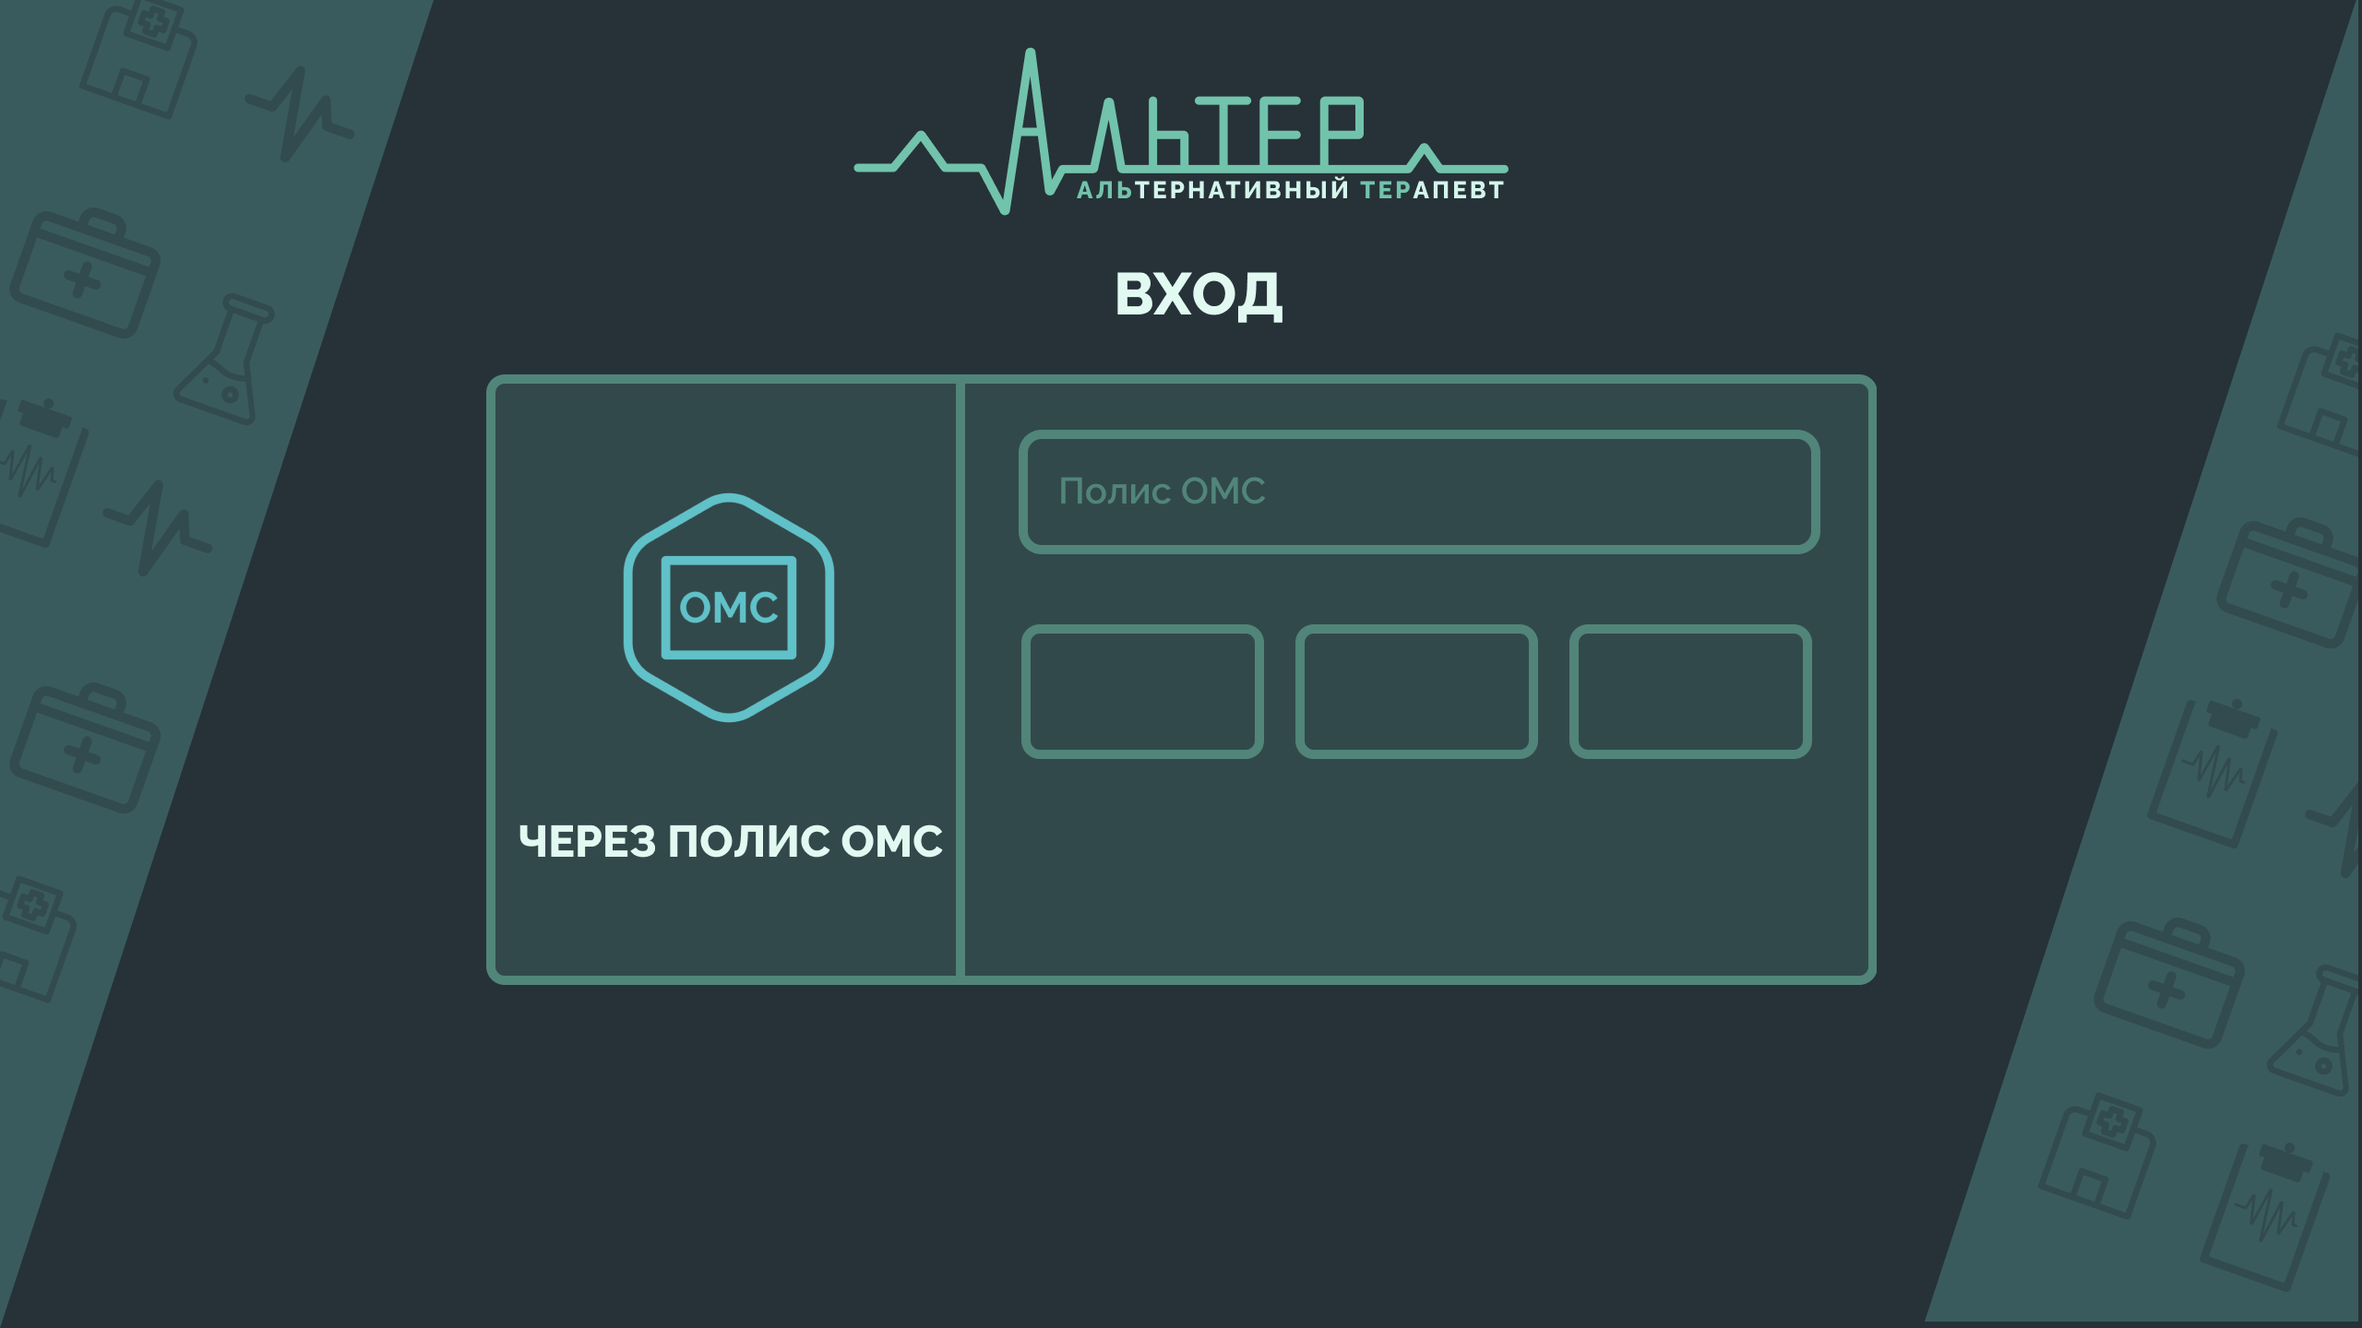
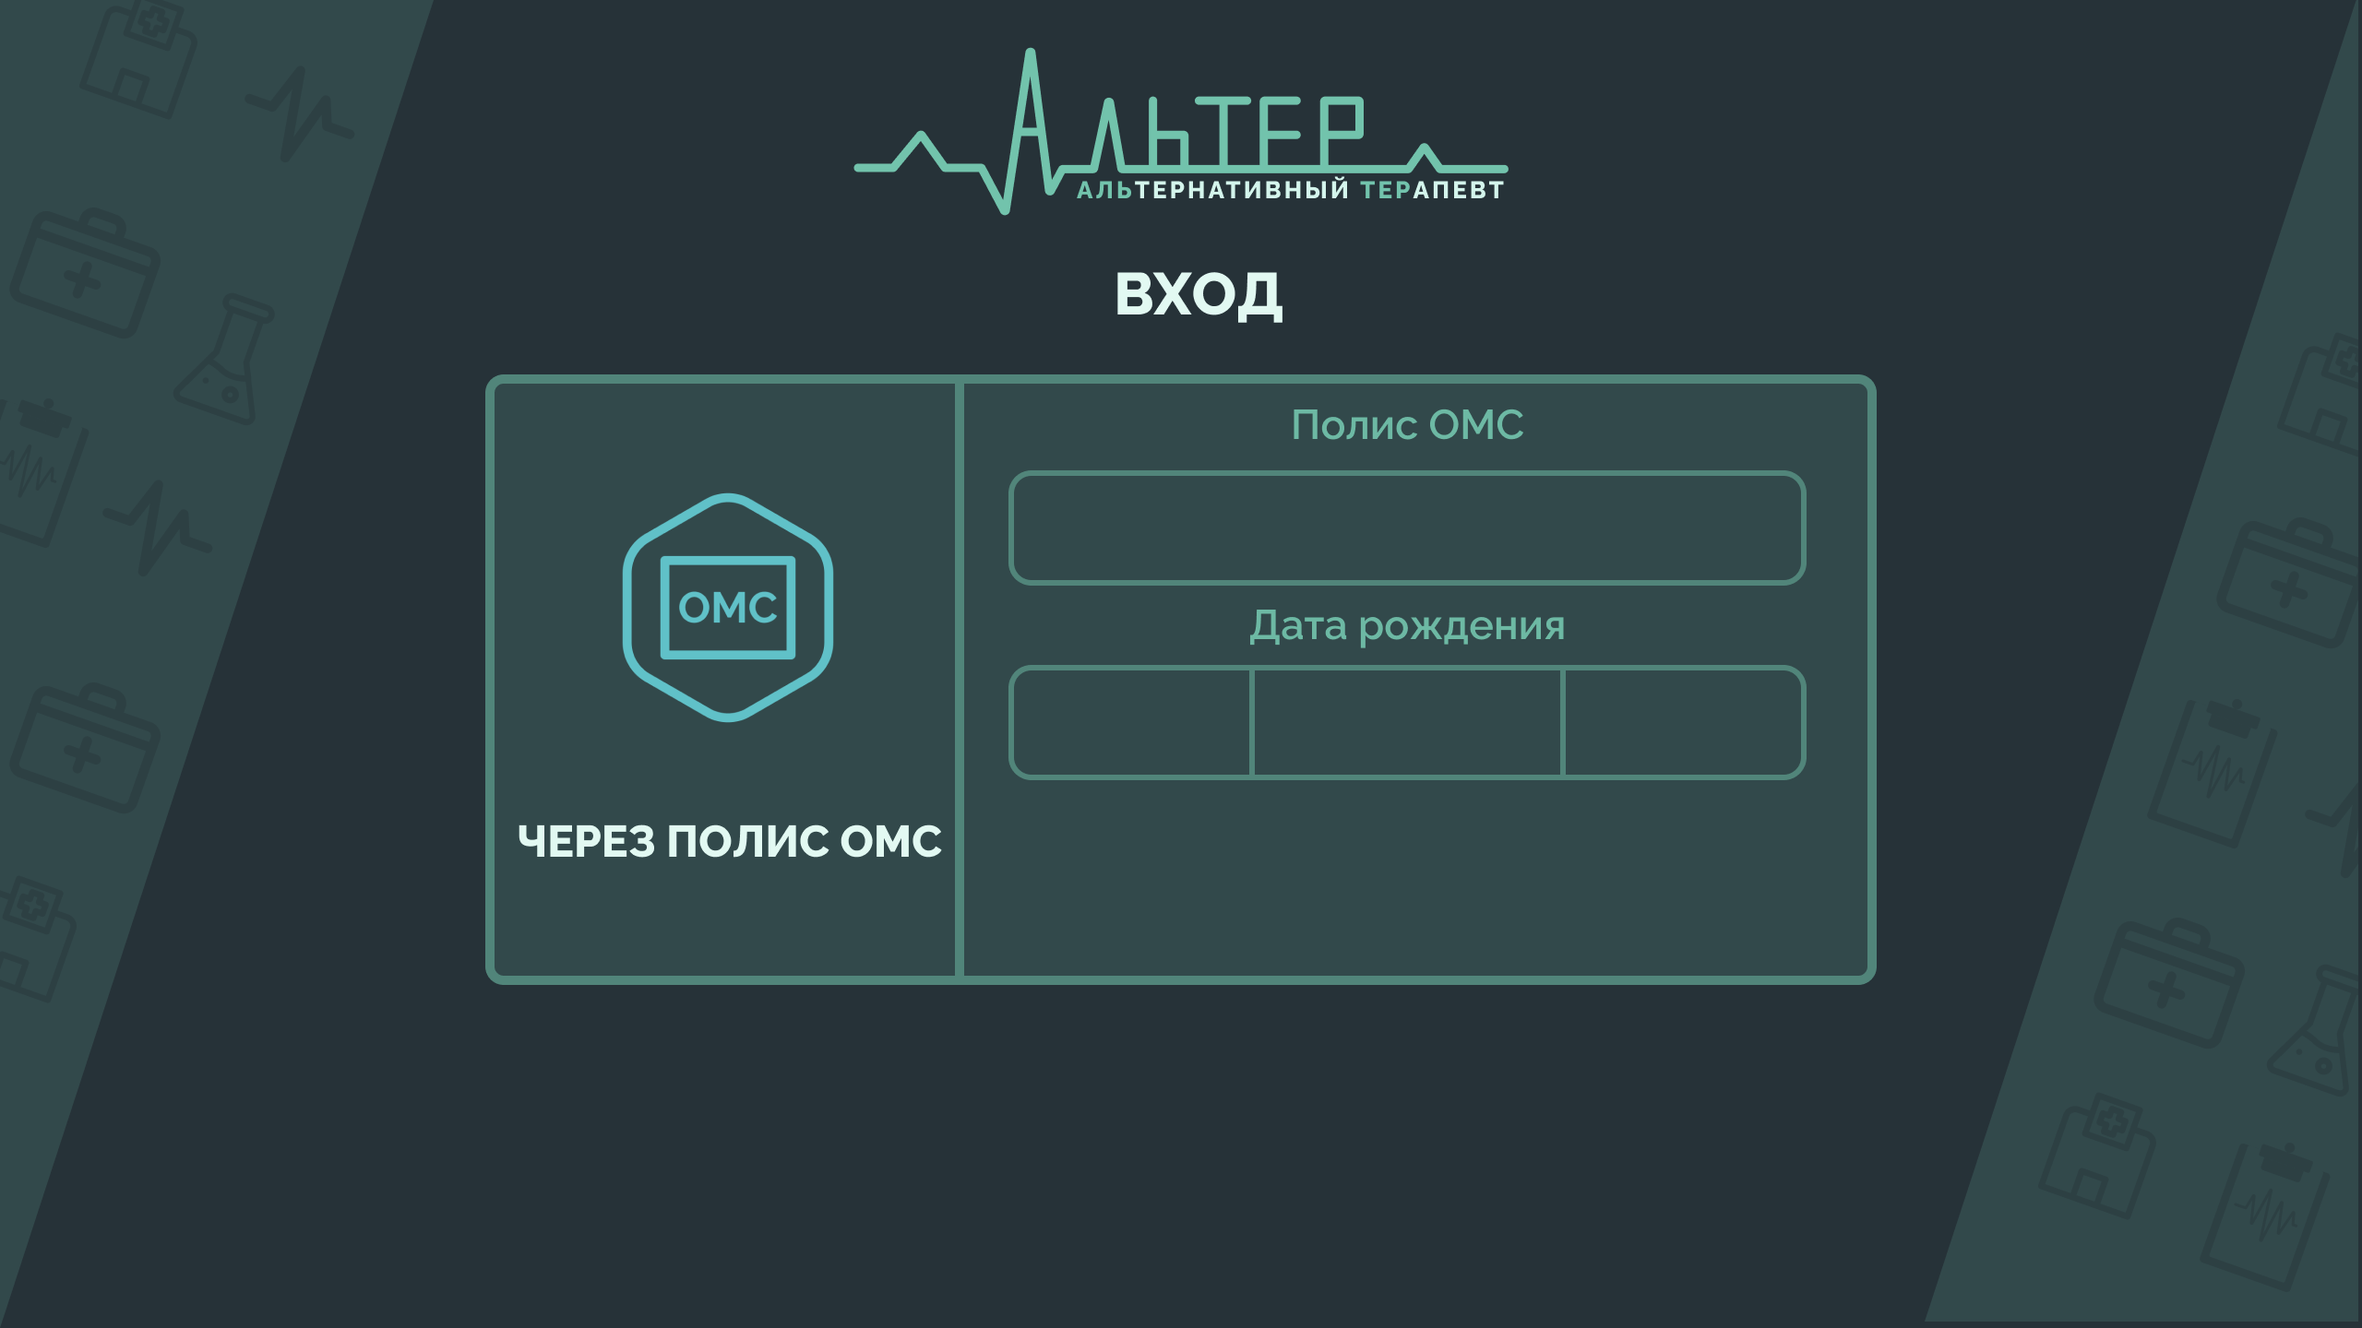
Add files via upload

Changed region(s): [[0.4062, 0.3125, 0.7812, 0.5938], [0.2812, 0.625, 0.3438, 0.6562], [0.2812, 0.4375, 0.3438, 0.4688]]

diff --git a/Screens/omsscreen.py b/Screens/omsscreen.py
@@ -1,6 +1,4 @@
 import sys
-import locale
-locale.setlocale(locale.LC_ALL, '')
 from kivy.properties import DictProperty, ObjectProperty
 from kivy.clock import Clock
 import threading
@@ -8,26 +6,48 @@ from kivy.clock import Clock, mainthread
 from kivymd.uix.screen import MDScreen as Screen
 from kivymd.uix.button import MDFillRoundFlatButton
 from kivymd.effects.fadingedge.fadingedge import FadingEdgeEffect
+from kivy.uix.behaviors import ToggleButtonBehavior
 from kivymd.uix.list import OneLineListItem
 from kivy.uix.scrollview import ScrollView
 from kivymd.uix.dialog import MDDialog
 from kivymd_extensions.akivymd.uix.datepicker import AKDatePicker
+from kivy.uix.screenmanager import FadeTransition
 from kivy.utils import get_color_from_hex
+from kivymd.uix.textfield import MDTextField
 import requests
 
 class FadeScrollView(FadingEdgeEffect, ScrollView):
     pass
 
-class OneLineListItemAligned(OneLineListItem):
-    def __init__(self, halign, **kwargs):
-        super(OneLineListItemAligned, self).__init__(**kwargs)
-        self.ids._lbl_primary.halign = halign
+
+        
 
 class OMSScreen(Screen):
     dialog = None
     dialog1 = None
     dialogs = None
     timeclocks = None
+    day = None
+    year = None
+    month = None
+    def back(self):
+        self.ids.policy.text =""
+        self.day = None
+        self.year = None
+        self.month = None
+        self.manager.transition = FadeTransition(duration=.1)
+        self.manager.current = 'enter'
+        self.manager.get_screen('enter').on_touch_down()
+        self.ids.counts.text_color ='white'
+        x = ToggleButtonBehavior.get_widgets('x')
+        for i in x:
+            i.state = 'normal'
+        y = ToggleButtonBehavior.get_widgets('y')
+        for i in y:
+            i.state = 'normal'
+        z = ToggleButtonBehavior.get_widgets('z')
+        for i in z:
+            i.state = 'normal'
     @mainthread
     def error(self):
         self.manager.current = "oms"
@@ -45,12 +65,6 @@ class OMSScreen(Screen):
         self.manager.get_screen('loged').bdates = bdate
         self.manager.get_screen('loged').types = 'oms'
         self.manager.get_screen('priem').cur = 'omsloged'
-    def back(self):
-        self.manager.current = "enter"
-        self.bdate.helper_text = ""
-        self.policy.helper_text = ""
-        self.policy.text = ""
-        self.bdate.text = ""
 
     def datepicker(self):
         self.date = AKDatePicker(callback=self.callback)
@@ -109,34 +123,20 @@ class OMSScreen(Screen):
         sys.exit()
 
     def omslogin(self):
-        if len(self.policy.text) < 16 or len(self.policy.text) > 16:
-            self.policy.helper_text = "Некорректный полис"
-            self.policy.helper_text_color_normal = "red"
-            self.policy.helper_text_color_focus = "red"
-        elif self.bdate.text != "":
+        if len(self.ids.policy.text) < 16 or len(self.ids.policy.text) > 16:
+            None
+        elif self.day !=None and self.month !=None and self.year !=None:
             if self.timeclocks == None:
                 self.timeclocks = Clock.schedule_interval(self.manager.get_screen('loged').update, 2)
-            bdate = self.bdate.text.replace(".", "-")
-            oms = self.policy.text
-            self.omsfunc(self.policy.text, bdate)
-            self.bdate.helper_text = ""
-            self.bdate.helper_text_color_normal = "white"
-            self.bdate.helper_text_color_focus = "white"
-            self.policy.helper_text_color_normal = "white"
-            self.policy.helper_text = ""
-            self.bdate.text = ''
-            self.policy.text = ''
-            self.policy.helper_text_color_focus = "white"
+            bdate = f'{self.year}-{self.month}-{self.day}'
+            print(bdate)
+            self.omsfunc(self.ids.policy.text, bdate)
+            self.ids.policy.text = ''
             self.manager.current = "loadoms"
 
 
         else:
-            self.bdate.helper_text = "Введите дату"
-            self.bdate.helper_text_color_normal = "red"
-            self.bdate.helper_text_color_focus = "red"
-            self.policy.helper_text_color_normal = "white"
-            self.policy.helper_text = ""
-            self.policy.helper_text_color_focus = "white"
+            None
 
     def show_alert_dialog(self):
         if not self.dialog:
@@ -182,20 +182,12 @@ class OMSScreen(Screen):
                 ],
             )
         self.dialogs.open()
-    def validation(self):
-        if self.ids.policy.text != '':
-            if len(self.ids.policy.text) != 16:
-                self.ids.policy.fill_color_normal = get_color_from_hex("B5474D")
-            else:
-                self.ids.policy.fill_color_normal = get_color_from_hex("#32494B")
-        else:
-            self.ids.policy.fill_color_normal = 53/255,73/255,75/255,0
     def cou(self):
         self.ids.counts.text = f'{len(self.ids.policy.text)}/16'
         if 16>len(self.ids.policy.text) or len(self.ids.policy.text)>16:
-            self.ids.counts.text_color = 'red'
+            self.ids.counts.text_color = get_color_from_hex("#72C3AC")
         else:
-            self.ids.counts.text_color = 'white'
+            self.ids.counts.text_color = get_color_from_hex("#72C3AC")
     def days(self, instance):
         self.day = str(instance.date).zfill(2)
     def months(self, instance):

diff --git a/main.py b/main.py
@@ -1,17 +1,21 @@
-import locale
 from kivy.clock import Clock
 from Screens.enterscreen import ENTERScreen
-from Screens.mosscreen import MOSScreen
+from Screens.mosscreen import MOSScreen, HelpScreen
 from Screens.omsscreen import OMSScreen
 from Screens.lkcardscreen import LKCard
 from Screens.mosloged import MOSLoged
+import locale
+locale.setlocale(
+    category=locale.LC_ALL,
+    locale="Russian"
+)
 from kivy.utils import get_color_from_hex
 from Screens.omsloged import OMSLoged
 from Screens.privivkiscreen import Privivki
 from Screens.priemscreen import Priem
+from Screens.emiasscreen import EmiasScreen
 from kivy.uix.scrollview import ScrollView
 from Screens.decryptscreen import Decrypt
-locale.setlocale(locale.LC_ALL, '')
 from kivymd.effects.fadingedge.fadingedge import FadingEdgeEffect
 from kivymd.uix.button import MDFlatButton
 from kivymd.uix.behaviors.toggle_behavior import MDToggleButton
@@ -89,12 +93,12 @@ class Alert(Screen):
 class MyToggleButton(MDFlatButton, MDToggleButton):
     def __init__(self, *args, **kwargs):
         super().__init__(*args, **kwargs)
-        self.background_down = get_color_from_hex('#00E4B6')
-        self.font_color_normal =  get_color_from_hex('#E2F9F2')
-        self.font_color_down =  get_color_from_hex('#E2F9F2')
+        self.background_down = get_color_from_hex('#51857A')
+        self.font_color_normal =  get_color_from_hex('#72C3AC')
+        self.font_color_down =  get_color_from_hex('#72C3AC')
 
     def on_state(self, widget, value):
-        print(1)
+        print(self.state)
 
 class AlterApp(MDApp):
     sm = None
@@ -102,7 +106,9 @@ class AlterApp(MDApp):
         self.sm = ScreenManager()
         sm = self.sm
         sm.add_widget(AFK(name='afk'))
+        sm.add_widget(EmiasScreen(name='emiasscreen'))
         sm.add_widget(Alert(name='alert'))
+        sm.add_widget(HelpScreen(name='help'))
         sm.add_widget(ENTERScreen(name="enter"))
         sm.add_widget(OMSScreen(name="oms"))
         sm.add_widget(MOSScreen(name="mos"))
@@ -124,7 +130,7 @@ class AlterApp(MDApp):
         sm.add_widget(Decrypt(name='decrypt'))
         Clock.schedule_interval(sm.get_screen('enter').update, 2)
         for i in range(1,32):
-            twl = MyToggleButton(halign="center", text=f'{i}', text_color=get_color_from_hex('#E2F9F2'), theme_text_color='Custom', font_style='H4', on_press = sm.get_screen('oms').days, md_bg_color = get_color_from_hex('#32494B'), size_hint = (1, .2), group="x")
+            twl = MyToggleButton(halign="center", text=f'{i}', text_color=get_color_from_hex('#72C3AC'), theme_text_color='Custom', font_style='H4', on_press = sm.get_screen('oms').days, md_bg_color = get_color_from_hex('#32494B'), size_hint = (1, .2), group="x")
             twl.date = i
             sm.get_screen('oms').ids.container1.add_widget(twl)
         months=[
@@ -142,11 +148,11 @@ class AlterApp(MDApp):
         'Декабрь'
         ]
         for i in months:
-            twl = MyToggleButton(halign="center", text=f'{i}', text_color=get_color_from_hex('#E2F9F2'), theme_text_color='Custom', font_style='H4', on_press = sm.get_screen('oms').months, md_bg_color = get_color_from_hex('#32494B'), size_hint = (1, .2), group="y")
+            twl = MyToggleButton(halign="center", text=f'{i}', text_color=get_color_from_hex('#72C3AC'), theme_text_color='Custom', font_style='H4', on_press = sm.get_screen('oms').months, md_bg_color = get_color_from_hex('#32494B'), size_hint = (1, .2), group="y")
             twl.month = i
             sm.get_screen('oms').ids.container2.add_widget(twl)
         for i in reversed(range(1900, 2024)):
-            twl = MyToggleButton(halign="center", text=f'{i}', text_color=get_color_from_hex('#E2F9F2'), theme_text_color='Custom', font_style='H4', on_press = sm.get_screen('oms').years, md_bg_color = get_color_from_hex('#32494B'), size_hint = (1, .2), group="z")
+            twl = MyToggleButton(halign="center", text=f'{i}', text_color=get_color_from_hex('#72C3AC'), theme_text_color='Custom', font_style='H4', on_press = sm.get_screen('oms').years, md_bg_color = get_color_from_hex('#32494B'), size_hint = (1, .2), group="z")
             twl.year = i
             sm.get_screen('oms').ids.container3.add_widget(twl)
         return sm

diff --git a/Screens/enterscreen.py b/Screens/enterscreen.py
@@ -5,8 +5,6 @@ from kivy.uix.image import Image
 from kivy.clock import Clock
 from kivy.core.window import Window
 from kivy.uix.relativelayout import RelativeLayout
-import locale
-locale.setlocale(locale.LC_ALL, '')
 import datetime
 
 class ENTERScreen(Screen):
@@ -57,4 +55,14 @@ class ENTERScreen(Screen):
             week = '[color=#D4F5EC]ВС[/color]'
         self.ids.time.text = f'[color=#D4F5EC]{time}[/color]'
         self.ids.week.text = f'[color=#D4F5EC]{week}, {days} {months}[/color]'
+        self.manager.get_screen('oms').ids.time.text = f'[color=#D4F5EC]{time}[/color]'
+        self.manager.get_screen('oms').ids.week.text = f'[color=#D4F5EC]{week}, {days} {months}[/color]'
+        self.manager.get_screen('mos').ids.time.text = f'[color=#D4F5EC]{time}[/color]'
+        self.manager.get_screen('mos').ids.week.text = f'[color=#D4F5EC]{week}, {days} {months}[/color]'
+        self.manager.get_screen('alert').ids.time.text = f'[color=#D4F5EC]{time}[/color]'
+        self.manager.get_screen('alert').ids.week.text = f'[color=#D4F5EC]{week}, {days} {months}[/color]'
+        self.manager.get_screen('emiasscreen').ids.time.text = f'[color=#D4F5EC]{time}[/color]'
+        self.manager.get_screen('emiasscreen').ids.week.text = f'[color=#D4F5EC]{week}, {days} {months}[/color]'
+        self.manager.get_screen('help').ids.time.text = f'[color=#D4F5EC]{time}[/color]'
+        self.manager.get_screen('help').ids.week.text = f'[color=#D4F5EC]{week}, {days} {months}[/color]'
     pass

diff --git a/Screens/lkcardscreen.py b/Screens/lkcardscreen.py
@@ -1,13 +1,12 @@
 import datetime
-import locale
 from kivy.uix.image import Image
 from selenium import webdriver
 from selenium.webdriver.firefox.service import Service
 from selenium.webdriver.firefox.options import Options
-locale.setlocale(locale.LC_ALL, '')
 from kivy.properties import DictProperty, ObjectProperty
 from kivy.clock import Clock
 from kivymd.uix.label import MDLabel
+import os
 from kivy.clock import Clock
 from html2image import Html2Image
 from cairosvg import svg2png
@@ -70,12 +69,14 @@ class LKCard(Screen):
         html = html.replace('<span>отклонение от нормы</span>', '<span style="color: red">ОТКЛОНЕНИЕ ОТ НОРМЫ</span>')
         html = html.replace('<span>норма</span>', '<span style="color: green">НОРМА</span>')
         html = html.replace('<span>Норма</span>', '<span style="color: green">НОРМА</span>')
+        Html_file= open("document.html","w", encoding="utf-8")
+        Html_file.write(html)
+        Html_file.close()
         options = Options()
-        #options.headless = True
+        options.headless = True
         options.add_argument("--width=1000")
         driver = webdriver.Firefox(options=options)
-        driver.get("data:text/html;charset=utf-8," + html)
-        time.sleep(1000)
+        driver.get(f'file://{os.path.abspath("document.html")}')
         driver.get_full_page_screenshot_as_file('document.png')
         driver.close()
         self.show_document()

diff --git a/Screens/mosscreen.py b/Screens/mosscreen.py
@@ -1,8 +1,6 @@
 import sys
 import time
 import datetime
-import locale
-locale.setlocale(locale.LC_ALL, '')
 from kivy.properties import DictProperty, ObjectProperty
 import threading
 from kivy.clock import Clock, mainthread
@@ -90,9 +88,8 @@ class MOSScreen(Screen):
                 self.succ(names, sure, age, idus, authtoken, oms, bdates, s, gender)
                 driver.quit()
         except Exception as ex:
-            print(ex)
+            self.mosfunc(event, width, height)
             driver.quit()
-            self.err()
             sys.exit()
 
 
@@ -154,3 +151,5 @@ class MOSScreen(Screen):
                 self.event.set()
             except:
                 None
+class HelpScreen(Screen):
+    pass

diff --git a/Screens/decryptscreen.py b/Screens/decryptscreen.py
@@ -7,9 +7,7 @@ from bs4 import BeautifulSoup
 import requests
 import json
 from kivy.uix.screenmanager import Screen, SlideTransition
-import locale
 from kivy.uix.image import Image
-locale.setlocale(locale.LC_ALL, '')
 from kivy.properties import DictProperty, ObjectProperty
 from kivymd.uix.label import MDLabel
 from kivy.uix.relativelayout import RelativeLayout

diff --git a/Screens/omsloged.py b/Screens/omsloged.py
@@ -1,7 +1,5 @@
 import datetime
-import locale
 from MyComponents.mycomponents import Tab, MyToggleButton, MyToggleButtonNew, Item, Itemerrors, Itemfactor, Itemwait, Full
-locale.setlocale(locale.LC_ALL, '')
 from kivymd.uix.label import MDLabel
 from kivy.uix.relativelayout import RelativeLayout
 from kivy.uix.stacklayout import StackLayout

diff --git a/Screens/priemscreen.py b/Screens/priemscreen.py
@@ -1,7 +1,5 @@
 import requests
 from kivy.uix.screenmanager import Screen
-import locale
-locale.setlocale(locale.LC_ALL, '')
 from kivy.properties import DictProperty, ObjectProperty
 from kivymd.uix.label import MDLabel
 from kivy.uix.relativelayout import RelativeLayout

diff --git a/Screens/privivkiscreen.py b/Screens/privivkiscreen.py
@@ -1,7 +1,4 @@
 import datetime
-import locale
-
-locale.setlocale(locale.LC_ALL, '')
 from kivymd.uix.label import MDLabel
 from kivy.uix.relativelayout import RelativeLayout
 from kivy.uix.screenmanager import Screen

diff --git a/Screens/mosloged.py b/Screens/mosloged.py
@@ -1,6 +1,4 @@
 import datetime
-import locale
-locale.setlocale(locale.LC_ALL, '')
 from kivy.uix.screenmanager import Screen
 
 class MOSLoged(Screen):

diff --git a/Screens/emiasscreen.py b/Screens/emiasscreen.py
@@ -1,0 +1,4 @@
+from kivy.uix.screenmanager import Screen
+
+class EmiasScreen(Screen):
+	pass
